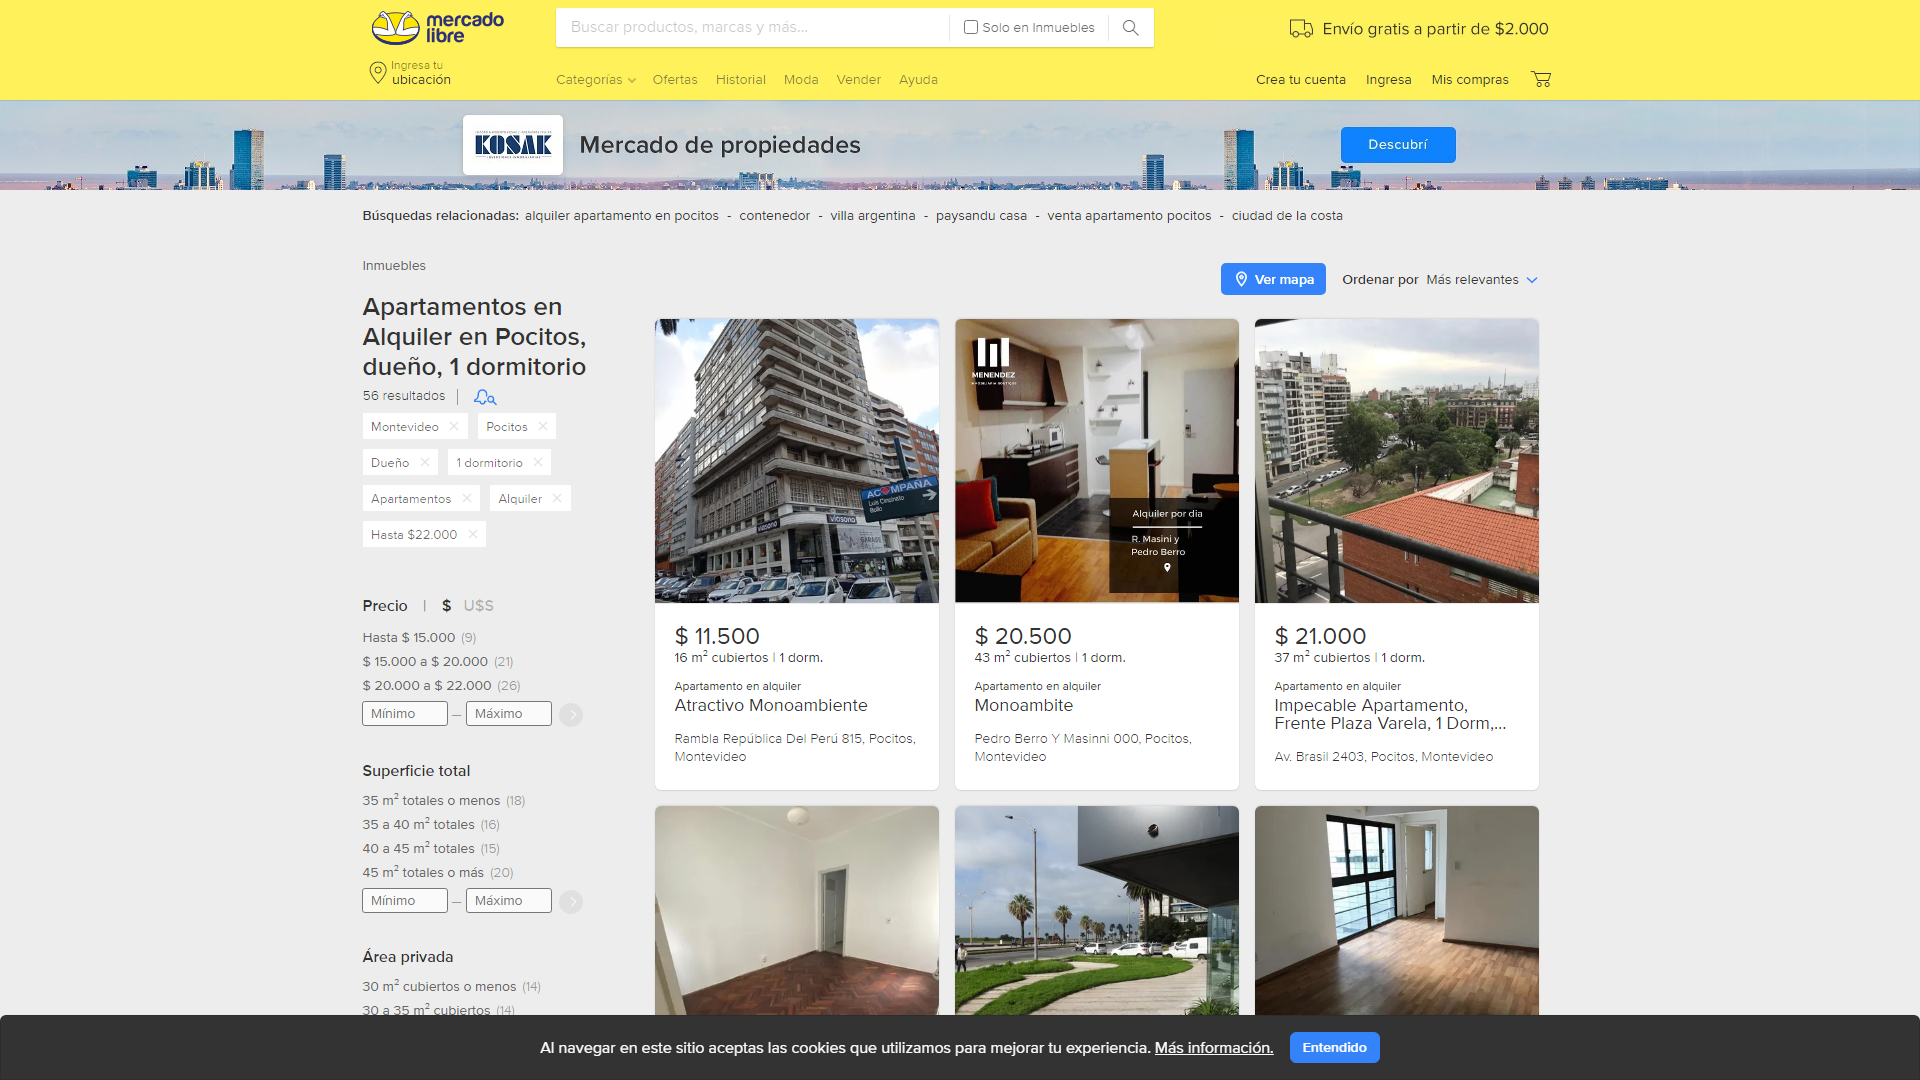
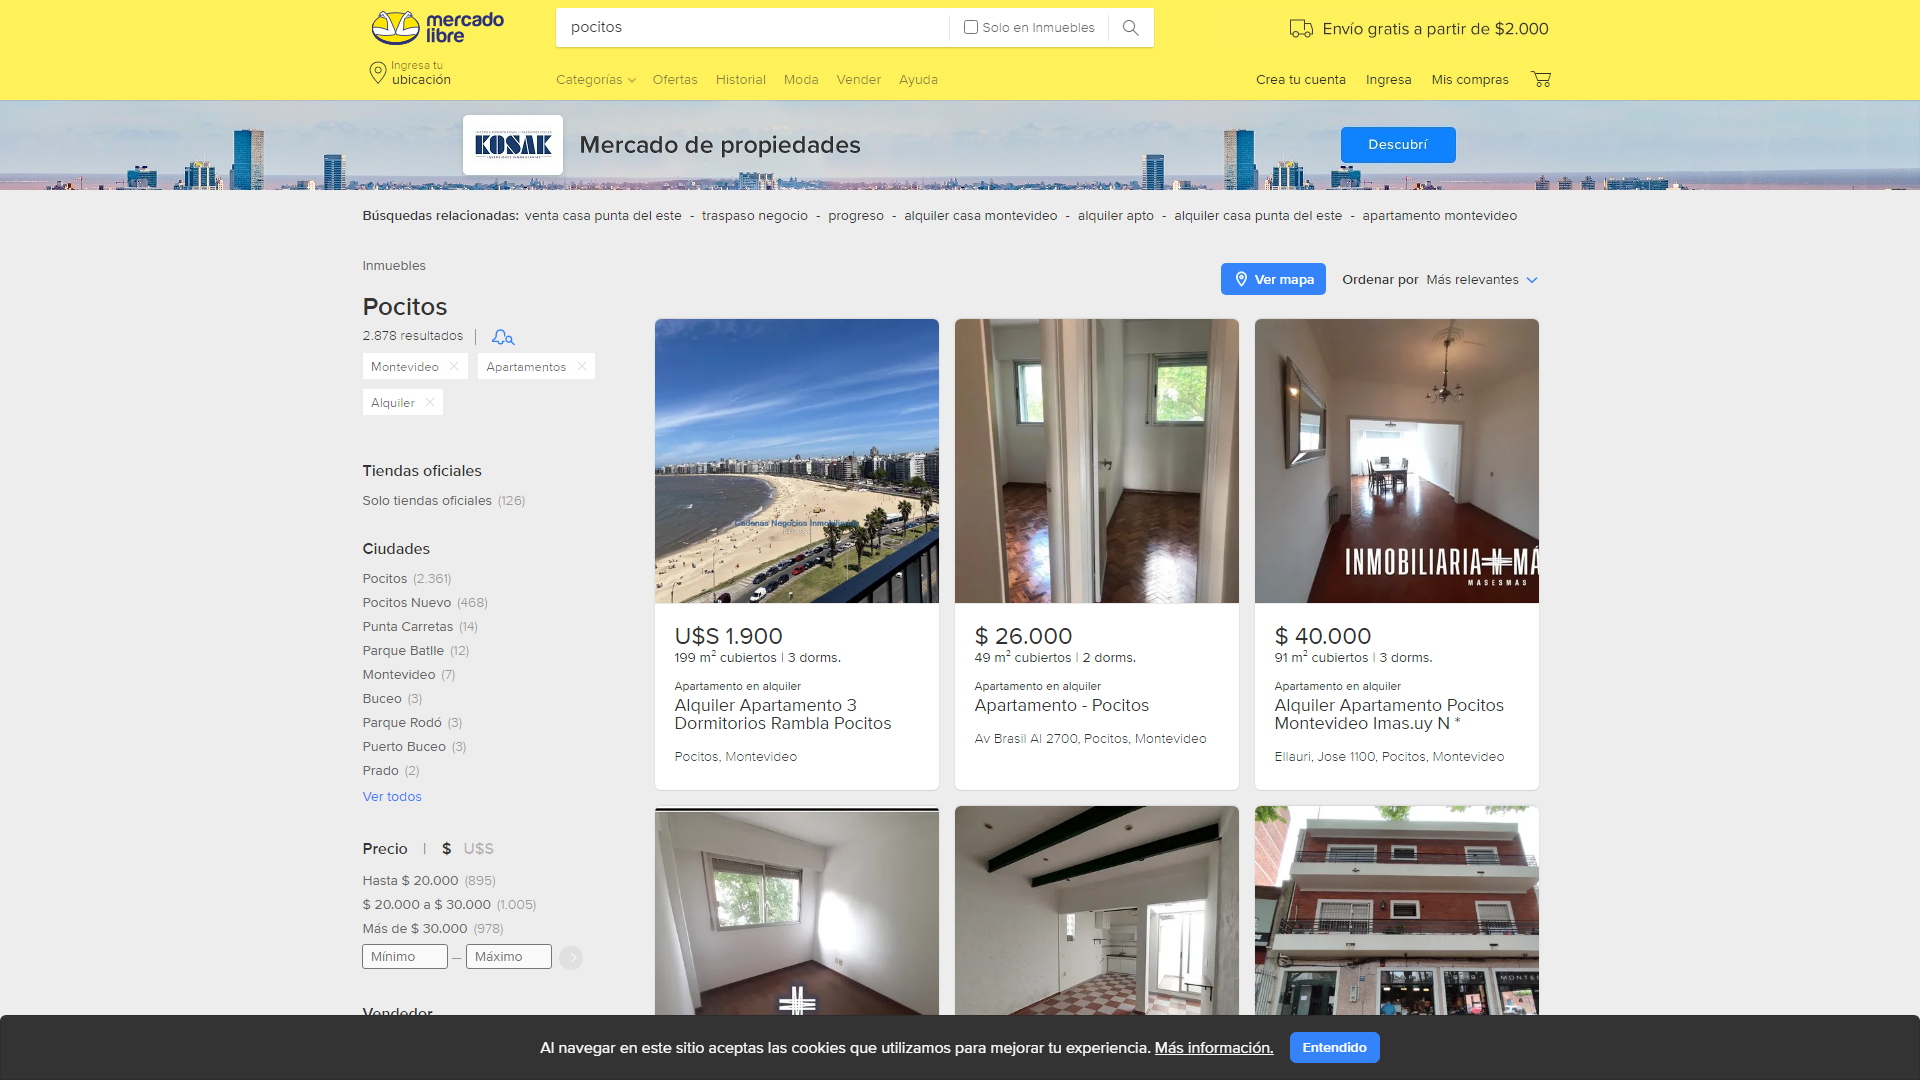
add new page generator

diff --git a/index.js b/index.js
@@ -2,9 +2,6 @@ require("dotenv").config();
 const puppeteer = require("puppeteer");
 const { Pool, Client } = require("pg");
 
-const apiUrl =
-  "https://listado.mercadolibre.com.uy/inmuebles/apartamentos/alquiler/1-dormitorio/montevideo/pocitos/dueno/_PriceRange_0UYU-22000UYU_NoIndex_True#applied_filter_id%3Dprice%26applied_filter_name%3DPrecio%26applied_filter_order%3D1%26applied_value_id%3D*-22000%26applied_value_name%3DUYU*-UYU22000%26applied_value_order%3D3%26applied_value_results%3DUNKNOWN_RESULTS%26is_custom%3Dtrue";
-
 const config = {
   user: process.env.PGUSER,
   host: process.env.PGHOST,
@@ -82,13 +79,76 @@ async function saveApartamentInDataBase(apartaments) {
 
   for (let apartament of apartaments) {
     const text = `INSERT INTO public.viviendas(titulo, price, "location", "attributes", link) VALUES($1, $2, $3, $4, $5) RETURNING *`;
-    const values = [
-      apartament.title,
-      apartament.price,
-      apartament.location,
-      apartament.attributes,
-      apartament.link,
-    ];
+    const values = [apartament.link];
+
+    // async/await
+    try {
+      const res = await client.query(text, values);
+      console.log(res.rows[0]);
+      // { name: 'brianc', email: 'brian.m.carlson@gmail.com' }
+    } catch (err) {
+      console.error(err.stack);
+    }
+  }
+  await client.end();
+}
+/*
+getAllHouseInPage().then((apartaments) =>
+  saveApartamentInDataBase(apartaments)
+);
+*/
+
+// Parte de guardar los links
+
+async function getApartamentsLinks(pageNumber) {
+  const browser = await puppeteer.launch();
+  const page = await browser.newPage();
+  await page.setViewport({
+    width: 1920,
+    height: 1080,
+    deviceScaleFactor: 1,
+  });
+
+  const pageUrl = generatePageUrl(pageNumber);
+  //Voy a la url con los apartamento
+  await page.goto(pageUrl);
+  //Aca le saco una captura de pantalla
+  await page.screenshot({ path: "example.png" });
+  //Aca selecciono un apartamento
+  const housesElement = await page.$$(".ui-search-layout__item");
+
+  //Todo: Cambiar esto por promise.all
+  let housesData = [];
+  for (let houseElement of housesElement) {
+    const houseData = await getLinkDataFromHouseElement(houseElement);
+    housesData.push(houseData);
+  }
+
+  await browser.close();
+
+  return housesData;
+}
+
+async function getLinkDataFromHouseElement(houseElement) {
+  const linkSelector = ".ui-search-link";
+
+  let houseData = {};
+
+  houseData["link"] = await houseElement.$eval(
+    linkSelector,
+    (data) => data.href
+  );
+
+  return houseData;
+}
+
+async function saveApartamentsLinks(apartaments) {
+  const client = new Client(config);
+  client.connect();
+
+  for (let apartament of apartaments) {
+    const text = `INSERT INTO public.pendingsaves(link) VALUES($1) RETURNING *`;
+    const values = [apartament.link];
 
     // async/await
     try {
@@ -102,6 +162,57 @@ async function saveApartamentInDataBase(apartaments) {
   await client.end();
 }
 
-getAllHouseInPage().then((apartaments) =>
-  saveApartamentInDataBase(apartaments)
-);
+function generatePageUrl(
+  pageNumber,
+  barrio = "pocitos",
+  departamento = "montevideo"
+) {
+  let fromText = "";
+  if (pageNumber > 1) {
+    let fromNumber = 1 + 48 * (pageNumber - 1);
+    fromText = `_Desde_${fromNumber}`;
+  }
+  const pageUrl = `https://listado.mercadolibre.com.uy/inmuebles/apartamentos/alquiler/${departamento}/${barrio}${fromText}`;
+
+  return pageUrl;
+}
+
+async function getPageAmountForBarrio(barrioName) {
+  const browser = await puppeteer.launch();
+  const page = await browser.newPage();
+  await page.setViewport({
+    width: 1920,
+    height: 1080,
+    deviceScaleFactor: 1,
+  });
+
+  const pageUrl = generatePageUrl(1);
+  //Voy a la url con los apartamento
+  await page.goto(pageUrl);
+  //Aca le saco una captura de pantalla
+  await page.screenshot({ path: "example.png" });
+  //Aca selecciono un apartamento
+
+  const pageNumberText = await page.$eval(
+    ".ui-search-search-result__quantity-results",
+    (data) => data.innerText
+  );
+
+  const numberOfApartament = pageNumberText.split(" ")[0].replace(".", "");
+
+  await browser.close();
+
+  return Number(numberOfApartament);
+}
+
+async function initApp() {
+  pageAmount = await getPageAmountForBarrio("pocitos");
+
+  /*
+  getApartamentsLinks(2).then((apartaments) =>
+    saveApartamentsLinks(apartaments)
+  );
+  */
+}
+
+initApp();
